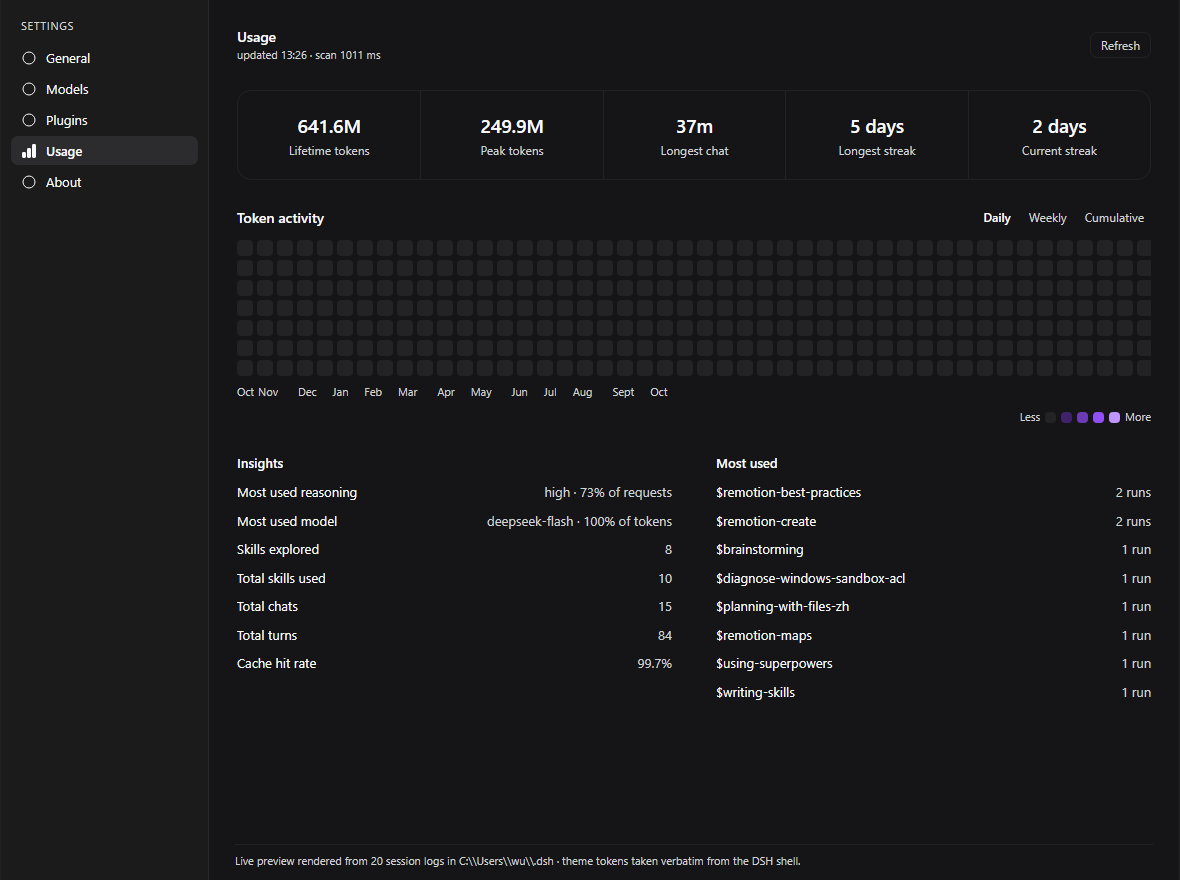
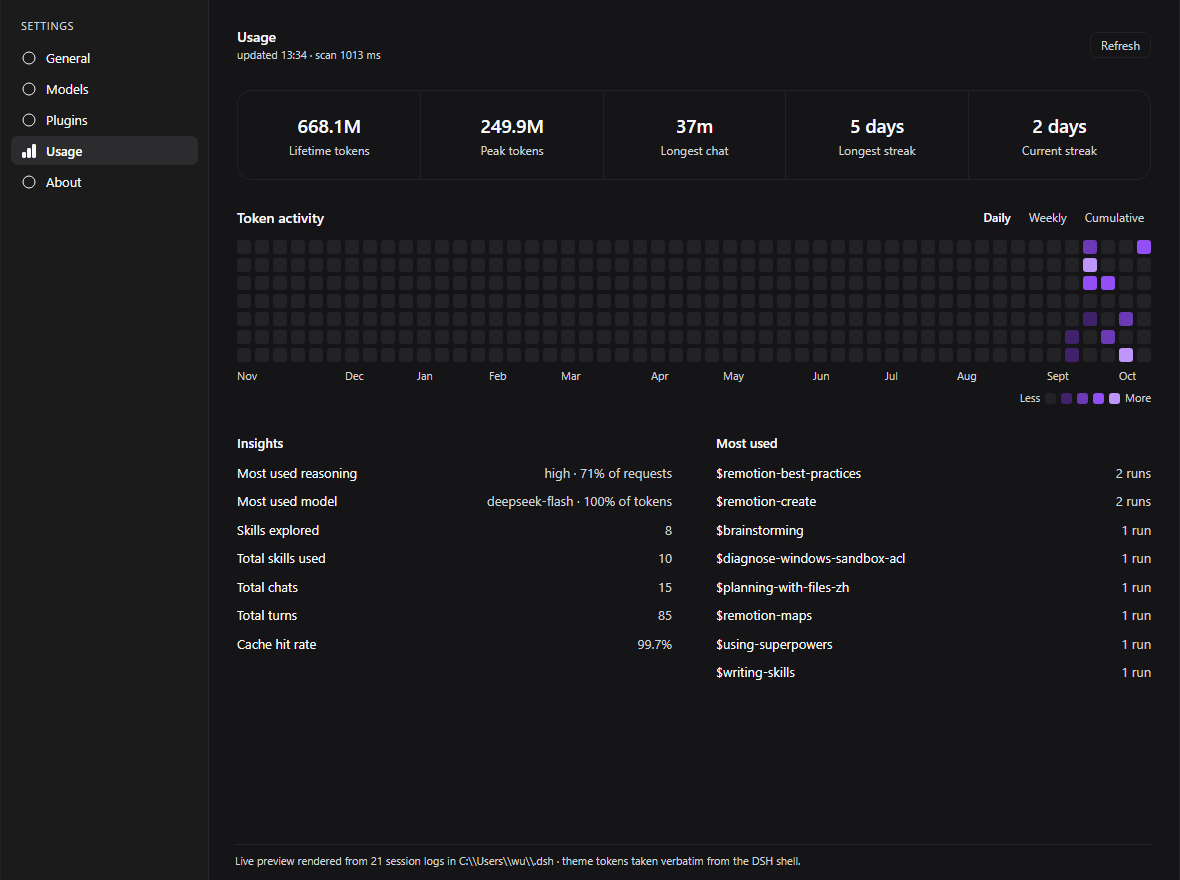
Make the activity heatmap fit the panel and fix month alignment
Two problems, both visible in a real settings panel.

The year overflowed into a horizontal scrollbar
  The grid was `width: max-content` with fixed 16px cells: 53 columns came to
  ~1060px, wider than the content column, so a year could only be read by
  dragging. Columns are now fluid (`grid-auto-columns: minmax(0,1fr)`) and
  cells are square via `aspect-ratio`, so the whole year fits whatever width
  the panel has. A 520px floor and a 1080px ceiling bound it: below the floor
  the row scrolls rather than shrinking to unreadable dots, above the ceiling
  the cells stop ballooning on a very wide window.

The month labels could never line up
  The cells and the labels are two separate grids. The cell grid sized its
  columns to 16px; the label grid left `grid-auto-columns` unset, so its
  columns were sized by their own text and the months drifted out from under
  their columns. Both rows now share one rule declaring the same track sizing,
  gap and width bounds, so column i has the same left edge in both.

  The label anchor was wrong too: it used each column's own first day, but the
  grid is padded back to a Sunday and that padding belongs to the previous
  month. The result was a bare leading "10月" ahead of the real "11月". Labels
  are now anchored on the column's first day INSIDE the window, so a 12-month
  window prints exactly 12 months.

Guards for both, since neither is visible from a unit test of the data:
[…]

diff --git a/src/client/panel.tsx b/src/client/panel.tsx
@@ -107,7 +107,7 @@ export interface HeatGrid {
 }
 
 /**
- * Build the heatmap's cell grid.
+ * Build the heatmap's cell grid, month labels included.
  *
  * Both ends are padded to whole weeks: the first column back to its Sunday and
  * the last forward to its Saturday. The grid fills column-major over exactly
@@ -115,16 +115,23 @@ export interface HeatGrid {
  * CSS, but it makes the grid's shape depend on which weekday "today" happens to
  * be. Cumulative padding carries the final total forward so the series stays
  * monotonic.
+ *
+ * A column is labelled from its first day that is INSIDE the window, not from
+ * its own first day. The Sunday padding belongs to the previous month, so
+ * anchoring on it would print a leading month the window does not actually
+ * cover — a bare `10月` ahead of the real `11月`.
  * @param snapshot - The snapshot carrying the day buckets and window.
  * @param mode - How each cell aggregates.
+ * @param locale - Locale for the month names.
  * @returns The cells plus the per-column month labels.
  */
-export function buildHeatmap(snapshot: UsageSnapshot, mode: HeatMode): HeatGrid {
+export function buildHeatmap(snapshot: UsageSnapshot, mode: HeatMode, locale?: string): HeatGrid {
   const byDate = new Map<string, DayUsage>()
   for (const day of snapshot.days) byDate.set(day.date, day)
 
-  const from = shiftDay(snapshot.heatmap.from, -weekdayOf(snapshot.heatmap.from))
+  const windowFrom = snapshot.heatmap.from
   const to = snapshot.heatmap.to
+  const from = shiftDay(windowFrom, -weekdayOf(windowFrom))
 
   const weekly = new Map<string, number>()
   if (mode === 'weekly') {
@@ -158,30 +165,24 @@ export function buildHeatmap(snapshot: UsageSnapshot, mode: HeatMode): HeatGrid 
   }))
 
   const months: Array<{ key: string; label: string }> = []
+  let previousMonth: string | undefined
   for (let index = 0; index < cells.length; index += 7) {
-    months.push({ key: cells[index]!.date, label: '' })
+    const columnStart = cells[index]!.date
+    // The first day of this column that the window actually covers.
+    const anchor = columnStart < windowFrom ? windowFrom : columnStart
+    if (anchor > to) {
+      months.push({ key: columnStart, label: '' })
+      continue
+    }
+    const month = anchor.slice(0, 7)
+    if (month === previousMonth) {
+      months.push({ key: columnStart, label: '' })
+      continue
+    }
+    previousMonth = month
+    months.push({ key: columnStart, label: dayLabel(anchor, locale, { month: 'short' }) })
   }
   return { cells, months }
-}
-
-/**
- * Label the month columns, emitting a name only where the month changes.
- *
- * Codex's heatmap prints the month under the first column that belongs to it,
- * which is what keeps a year readable without an axis.
- * @param grid - The grid from {@link buildHeatmap}.
- * @param locale - Locale for the month name.
- * @returns The grid with labels filled in.
- */
-export function labelMonths(grid: HeatGrid, locale?: string): HeatGrid {
-  let previousMonth: string | undefined
-  const months = grid.months.map((month) => {
-    const current = month.key.slice(0, 7)
-    const label = current === previousMonth ? '' : dayLabel(month.key, locale, { month: 'short' })
-    previousMonth = current
-    return { key: month.key, label }
-  })
-  return { ...grid, months }
 }
 
 /** Props for {@link UsageView}, the pure presentation component. */
@@ -361,7 +362,7 @@ function Activity({
   hovered: string | undefined
   setHovered: (key: string | undefined) => void
 }): ReactNode {
-  const grid = useMemo(() => labelMonths(buildHeatmap(snapshot, mode), locale), [snapshot, mode, locale])
+  const grid = useMemo(() => buildHeatmap(snapshot, mode, locale), [snapshot, mode, locale])
   const active = grid.cells.find((cell) => cell.key === hovered)
 
   return createElement(
@@ -425,7 +426,9 @@ function Activity({
         createElement(
           'div',
           { className: 'tdd-heat-months', 'aria-hidden': 'true' },
-          ...grid.months.map((month) => createElement('span', { key: month.key }, month.label)),
+          ...grid.months.map((month) =>
+            createElement('span', { className: 'tdd-heat-month', key: month.key }, month.label),
+          ),
         ),
       ),
       createElement(

diff --git a/src/client/styles.ts b/src/client/styles.ts
@@ -86,19 +86,32 @@ export const PANEL_CSS = [
   // heatmap
   '.tdd-heat{display:flex;flex-direction:column;gap:6px;min-width:0}',
   '.tdd-heat-scroll{overflow-x:auto;padding-bottom:2px}',
-  '.tdd-heat-grid{display:grid;grid-auto-flow:column;grid-template-rows:repeat(7,var(--tdd-cell));',
-  'gap:var(--tdd-gap);width:max-content;--tdd-cell:16px;--tdd-gap:4px}',
-  '.tdd-cell{width:var(--tdd-cell);height:var(--tdd-cell);border-radius:4px;background:var(--tdd-ramp-0)}',
+  // The cells and the month labels are two grids that MUST share one column
+  // geometry, or the labels drift out from under their columns. Both therefore
+  // declare the same `grid-auto-columns`, the same gap, and the same ceiling.
+  // The earlier version let the label grid size its columns to their own text,
+  // which is why the months never lined up.
+  //
+  // Columns are fluid (`1fr`) and cells are square (`aspect-ratio: 1`), so a
+  // year always fits the panel instead of overflowing into a scrollbar. The
+  // 520px floor is where a cell stops being a readable target; below it the row
+  // scrolls rather than shrinking to nothing.
+  '.tdd-heat-grid,.tdd-heat-months{display:grid;grid-auto-flow:column;grid-auto-columns:minmax(0,1fr);',
+  'gap:4px;width:100%;min-width:520px;max-width:1080px}',
+  '.tdd-heat-grid{grid-template-rows:repeat(7,minmax(0,1fr))}',
+  '.tdd-cell{width:100%;aspect-ratio:1;border-radius:3px;background:var(--tdd-ramp-0)}',
   ".tdd-cell[data-level='1']{background:var(--tdd-ramp-1)}",
   ".tdd-cell[data-level='2']{background:var(--tdd-ramp-2)}",
   ".tdd-cell[data-level='3']{background:var(--tdd-ramp-3)}",
   ".tdd-cell[data-level='4']{background:var(--tdd-ramp-4)}",
-  '.tdd-heat-months{display:grid;grid-auto-flow:column;gap:var(--tdd-gap);width:max-content;--tdd-gap:4px;',
-  'color:var(--dsw-alias-label-secondary);font-size:11px;white-space:nowrap}',
+  '.tdd-heat-months{color:var(--dsw-alias-label-secondary);font-size:11px;line-height:1}',
+  // A month name is wider than its column, so it spills right across the empty
+  // columns that follow — which is exactly where it should sit.
+  '.tdd-heat-month{white-space:nowrap;overflow:visible}',
   '.tdd-heat-foot{display:flex;flex-wrap:wrap;gap:12px;align-items:center;justify-content:space-between;',
   'color:var(--dsw-alias-label-secondary);font-size:11px;min-height:18px}',
   '.tdd-heat-legend{display:inline-flex;align-items:center;gap:5px}',
-  '.tdd-heat-legend .tdd-cell{--tdd-cell:11px}',
+  '.tdd-heat-legend .tdd-cell{width:11px;flex:none}',
 
   // insights
   '.tdd-cols{display:grid;grid-template-columns:repeat(2,minmax(0,1fr));gap:12px 44px}',
